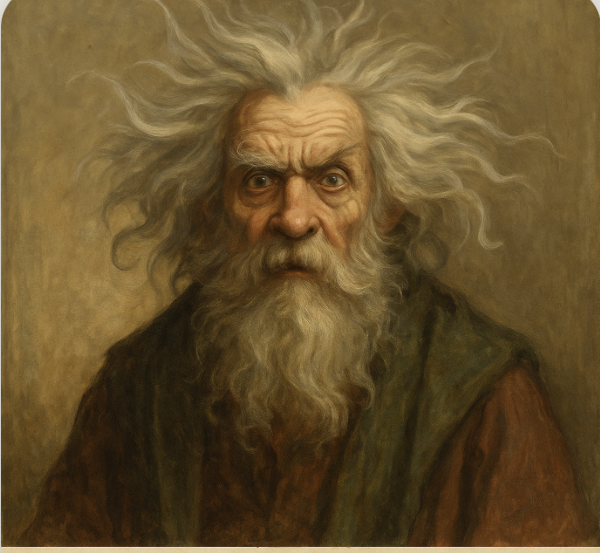
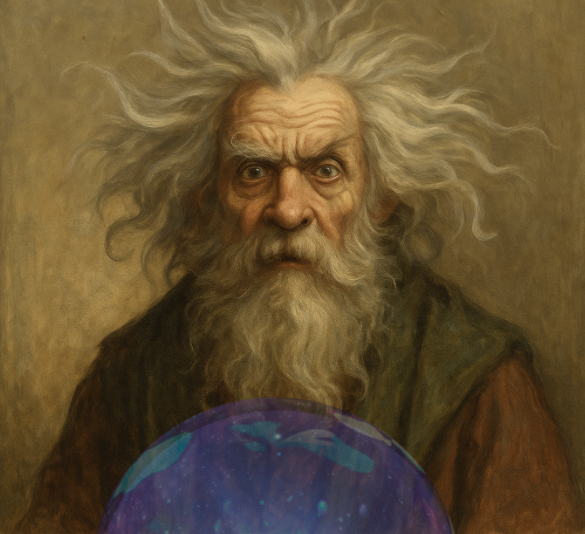
Amélioration du style Béber et nouvelle image avec boule

diff --git a/templates/index.html b/templates/index.html
@@ -5,47 +5,70 @@
     <title>Oracle Béber</title>
     <style>
         body {
-            background-color: #fdf6e3;
-            font-family: 'Comic Sans MS', cursive, sans-serif;
+            background: #fdf6e3 url("https://www.transparenttextures.com/patterns/paper-fibers.png");
+            font-family: 'Georgia', serif;
             text-align: center;
-            padding-top: 50px;
+            padding: 50px 20px;
+            color: #3e2f1c;
         }
+
         img {
-            max-width: 300px;
-            margin-bottom: 30px;
+            max-width: 280px;
+            border-radius: 20px;
+            box-shadow: 0 4px 20px rgba(0, 0, 0, 0.2);
+            margin-bottom: 20px;
         }
+
         .boite {
-            background-color: #fff3cd;
+            background: #fff8dc;
             display: inline-block;
             padding: 30px;
-            border: 2px dashed #d4a017;
+            border: 2px dashed #b8860b;
             border-radius: 20px;
+            box-shadow: 0 0 15px rgba(0,0,0,0.1);
             margin-top: 20px;
+            max-width: 500px;
         }
+
         input[type="text"] {
-            padding: 10px;
-            width: 300px;
+            padding: 12px;
+            width: 80%;
             border-radius: 10px;
             border: 1px solid #ccc;
+            font-size: 16px;
         }
+
         button {
             margin-top: 15px;
-            padding: 10px 20px;
+            padding: 10px 25px;
             font-size: 16px;
-            background-color: #ffdd57;
+            background-color: #f4c542;
             border: none;
             border-radius: 10px;
             cursor: pointer;
+            transition: background-color 0.3s ease;
         }
+
+        button:hover {
+            background-color: #e0b432;
+        }
+
         .réponse {
             font-weight: bold;
             font-size: 22px;
             color: #5a2a00;
             margin-bottom: 20px;
+            animation: fadeIn 1s ease-in-out;
+        }
+
+        @keyframes fadeIn {
+            from { opacity: 0; transform: translateY(10px); }
+            to { opacity: 1; transform: translateY(0); }
         }
     </style>
 </head>
 <body>
+
     <img src="{{ url_for('static', filename='beber.png') }}" alt="Béber l'oracle">
 
     <div class="boite">
@@ -58,5 +81,6 @@
             <button type="submit">Consulter l'oracle</button>
         </form>
     </div>
+
 </body>
 </html>
